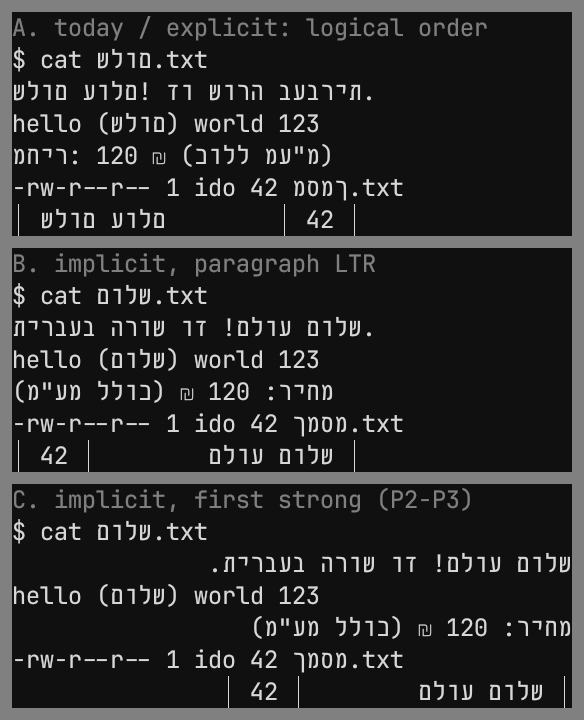
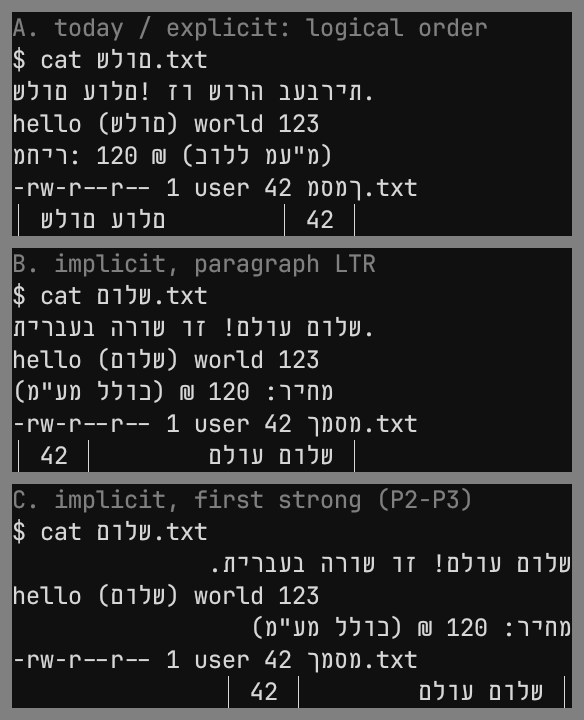
docs(bidi): the mode and table renders with a placeholder user
ab/step2/mode.png and ab/b192/table-1-table.png, table-2-psql.png and
table-3-pipe-in-text.png are drawn again, from scenes committed beside
them, by panels.sh.txt and panels.rs.txt through baud's CPU renderer,
with a placeholder user and a $ prompt in the sample text. Each
panel's order is worked with baud-domain's UAX #9, so it is the screen
its option drew on 2026-10-24.

Check: the earlier sample text through the same harness drew the
committed pictures again with every cell in place; the only pixels
apart are in three glyphs the font has redrawn since. A second run
writes the same bytes. Note AB lists the harness.

diff --git a/docs/research/notes/ab-right-to-left.md b/docs/research/notes/ab-right-to-left.md
@@ -1549,6 +1549,8 @@ All copied from the working files on 2026-10-13, except `qc/residuals.py` and `q
 
 - `ab/qc-fallback/`, added 2026-10-15 for the fallback placer's Hebrew classes: `corpus_cmp.py`, which shapes `ab/qc/clusters-all.txt` with hb-shape and the `qc` harness built from the commit before and from that commit, on Raanana, Raanana Bold, New Peninim MT, Corsiva Hebrew and Lucida Grande, and its output `corpus.txt`.
 
+- `ab/panels.rs.txt` and `ab/panels.sh.txt`, added 2026-11-03: the drawing of `ab/step2/mode.png` and `ab/b192/table-1-table.png`, `table-2-psql.png` and `table-3-pipe-in-text.png` (section 12) from the scene of the same name beside each (`mode.txt`, `table-1-table.txt`, ...), through baud's CPU renderer, each panel's order worked with baud-domain's UAX #9 so it is the screen its option drew on 2026-10-24. Drawn again then with a placeholder user and a `$` prompt in the sample text; the earlier sample's text drew the 2026-10-24 pictures again with every cell in place, the only pixels apart in ד, ז and ₪, whose glyphs baud's font has redrawn since.
+
 Harness sources carry a `.txt` suffix so the formatter leaves the bytes that ran.
 
 ## 12. Step 2: drawing the order (2026-10-24)
